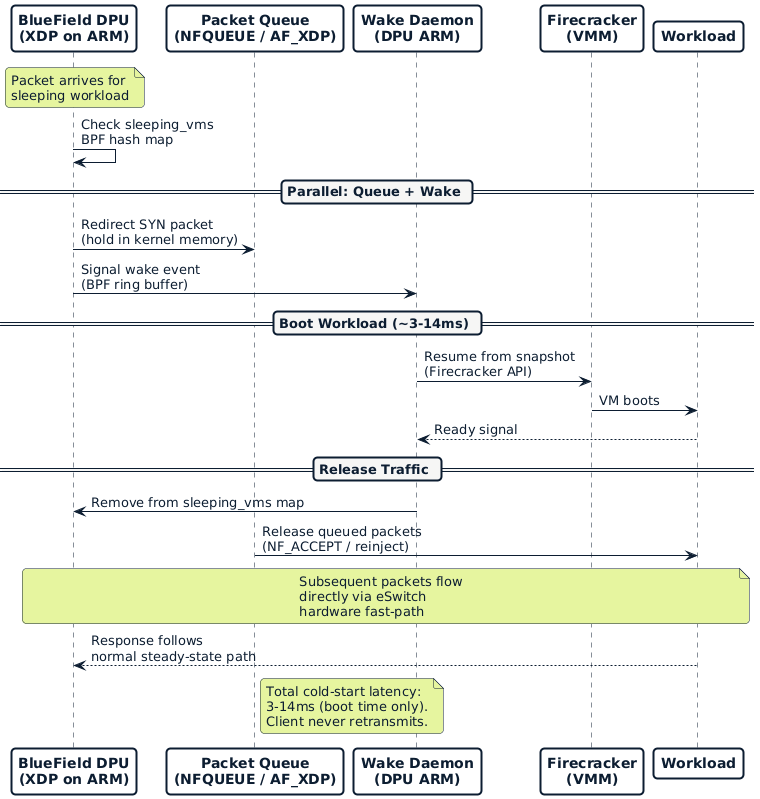
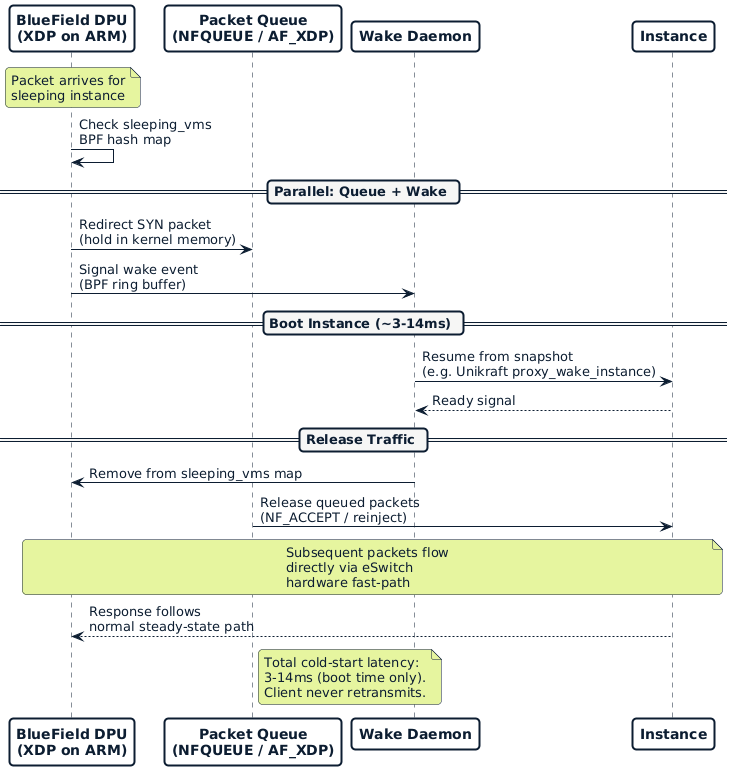
feat(compute): remove implementation details from wake daemon, add Unikraft API context
- Remove "Go" technology label from wake daemon (implementation TBD)
- Rename "Workload" to "Instance" in cold-start sequence diagram
- Remove Firecracker/VMM as intermediary in cold-start flow
- Add Unikraft's proposed C library API for instance wake-up to the
  UNRESOLVED block, with open questions on integration approach

Changed region(s): [[0.0, 0.0, 0.9905, 0.9974], [0.6903, 0.0, 0.9905, 0.0935], [0.6903, 0.9039, 0.9905, 0.9974]]

diff --git a/enhancements/compute/network-connectivity/README.md b/enhancements/compute/network-connectivity/README.md
@@ -495,9 +495,27 @@ networking.
 
 <<[UNRESOLVED @julia]>>
 Unikraft's existing virtio-net/TAP integration works well for the `standard`
-NetworkInterfaceClass. If there is future demand for `performance` class
-functions, evaluate whether VF passthrough (SR-IOV via VFIO) can be supported
-in the Firecracker fork. This is not a blocker for initial integration.
+NetworkInterfaceClass. For wake-on-traffic integration, Unikraft has proposed
+a C library API for instance lifecycle control:
+
+```c
+// Look up a specific backend node by UUID
+enum result proxy_lookup_node(char *node_uuid, struct conn* c_out);
+// Wake a sleeping instance
+enum result proxy_wake_instance(const struct conn* c);
+// Close a connection
+enum result proxy_close(struct conn* c_out);
+```
+
+The wake daemon would call `proxy_wake_instance` (or a simplified "bump by
+UUID" variant) when eBPF detects traffic for a sleeping instance. Open
+questions:
+
+- Can this API be exposed as a gRPC/REST service rather than a C library with
+  IPC, to avoid tight coupling between the wake daemon and Unikraft's
+  controller process?
+- How does the wake daemon discover which instances are on which nodes? Push
+  (Unikraft registers instances) vs pull (daemon queries Unikraft)?
 <<[/UNRESOLVED]>>
 
 ## Alternatives
